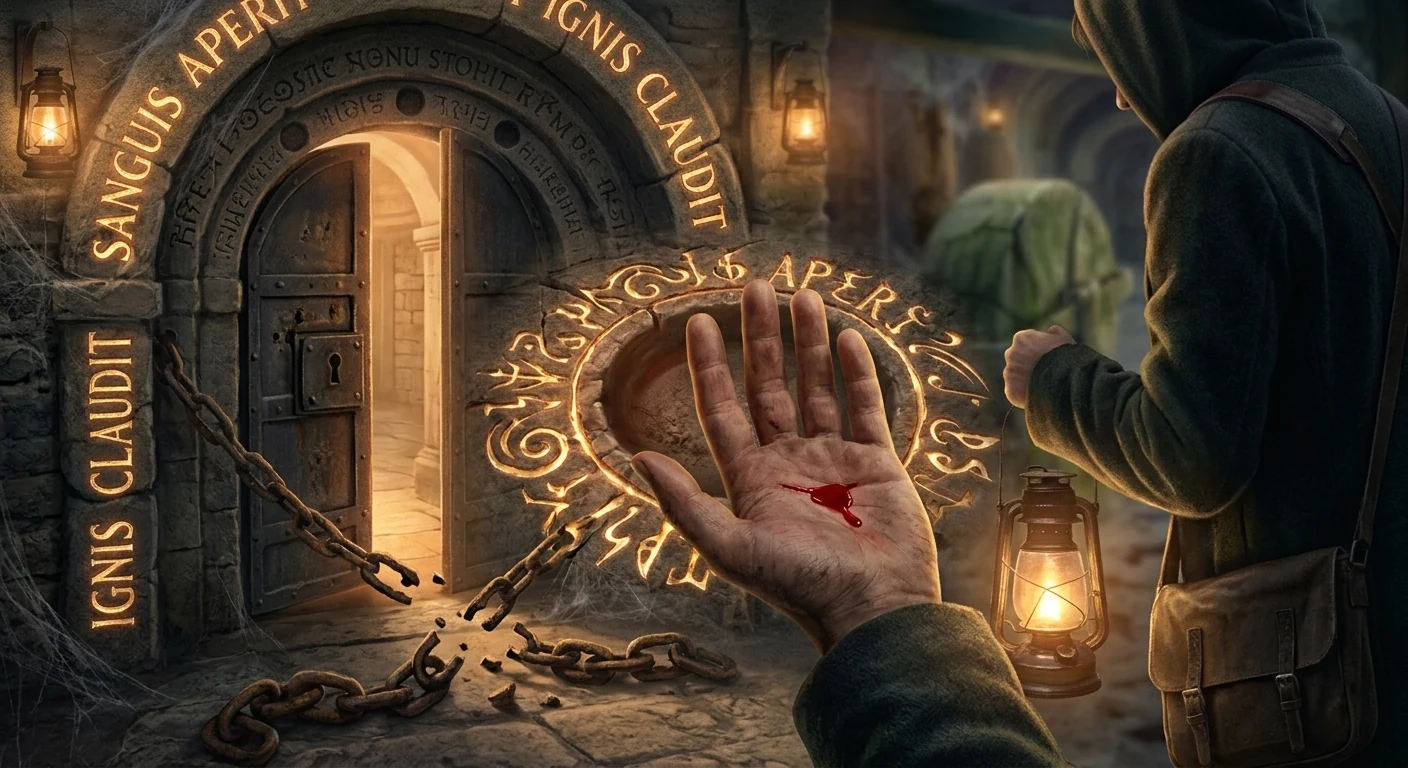
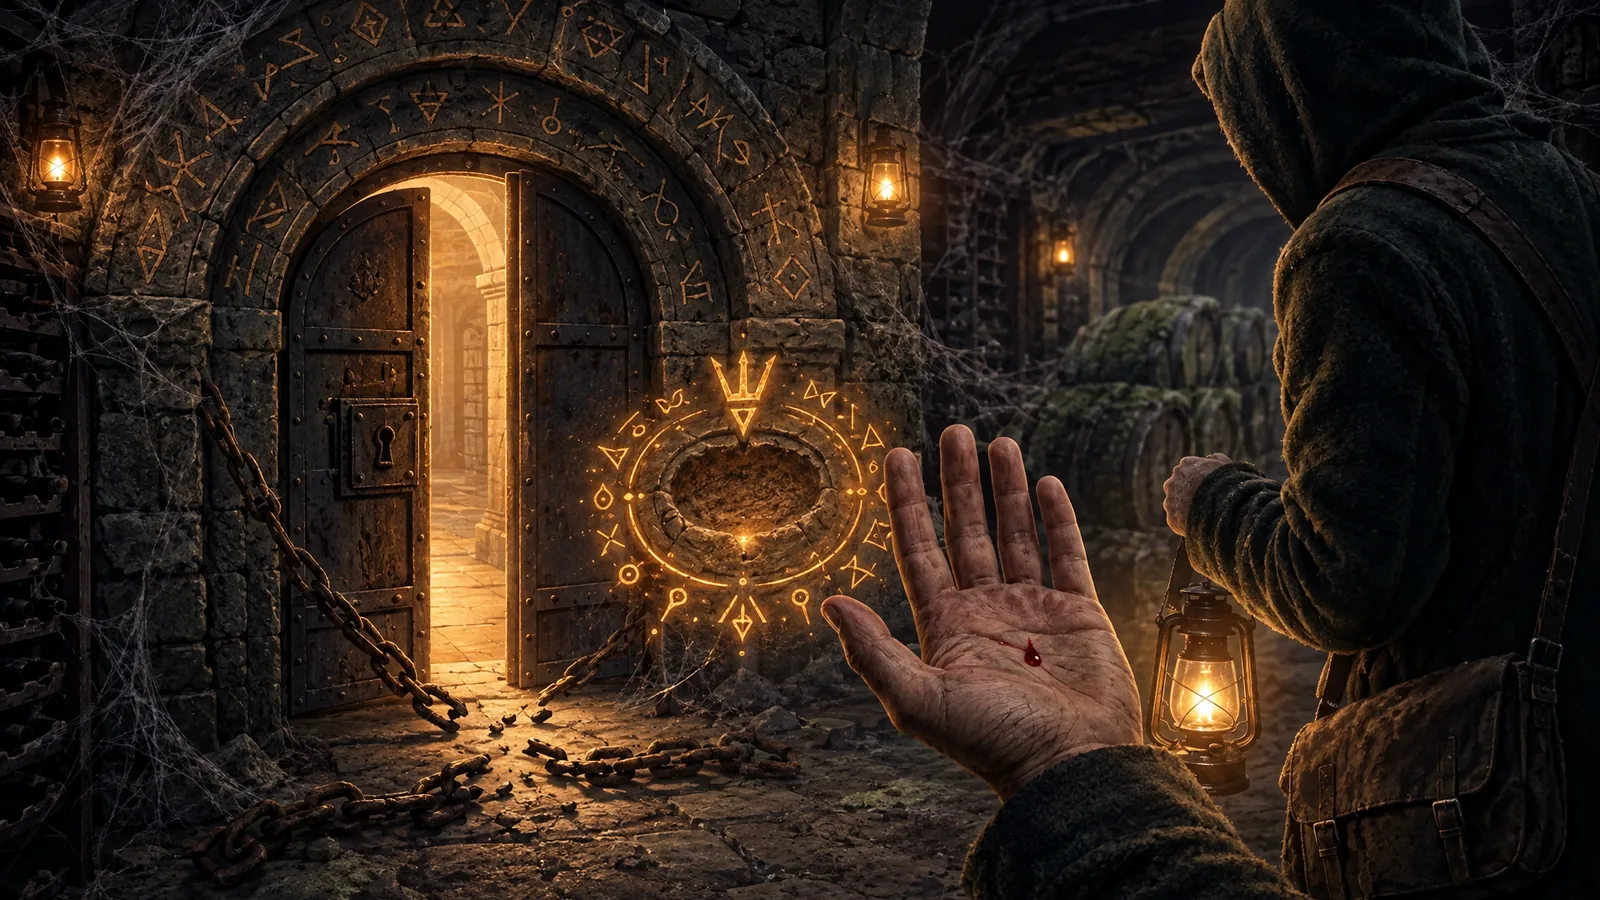
Mühürlü Kapı'nın eksik 6 sonuç görseli ve 3 görsel düzeltmesi
- kapiyi_dinle, kapiyi_zorla, mahzen_uc_vurus başarı/başarısızlık kareleri (16:9)
- bilgin_muhru_coz_success: okunabilir yazı kaldırıldı
- dedektif_tuzagi_etkisizlestir_fail: tuzağın tetiklendiği an, başarıdan ayrışıyor
- bilgin_muhru_coz_fail: kan izleri kaldırıldı

Claude-Session: https://claude.ai/code/session_01JqZuFhZkPtEmSQdCde2g6z

diff --git a/scripts/story-art/generate.py b/scripts/story-art/generate.py
@@ -1,0 +1,97 @@
+#!/usr/bin/env python3
+"""
+manifest.json'daki görselleri CellCog ile üretir ve place.py ile yerine koyar.
+
+  CELLCOG_API_KEY=sk_... python3 scripts/story-art/generate.py <node_id> [--only id1,id2] [--tier max]
+
+- Bir sahnenin eksik görselleri tek CellCog sohbetinde üretilir (süreklilik için).
+- Sahnenin ana görseli yoksa önce o üretilir, sonuç görselleri ona referansla üretilir.
+- Ham çıktılar scripts/story-art/.raw/ altına iner (git'e girmez).
+"""
+import json, os, sys, subprocess
+from cellcog import CellCogClient
+
+HERE = os.path.dirname(os.path.abspath(__file__))
+ROOT = os.path.abspath(os.path.join(HERE, '..', '..'))
+ART = os.path.join(ROOT, 'client', 'public', 'story-art')
+RAW = os.path.join(HERE, '.raw')
+# Üslup referansı: kullanıcının onayladığı ilk sahne görseli
+STYLE_REF = os.path.join(ART, 'mahzen', 'mahzen_01_karanlik_mahzen', 'scene.webp')
+
+
+def chat(client, prompt, label, tier):
+    r = client.create_chat(prompt=prompt, task_label=label, chat_mode='agent', chat_tier=tier, timeout=3600)
+    print(r['message'])
+    if r.get('timed_out'):
+        r = client.wait_for_completion(chat_id=r['chat_id'], timeout=3600)
+        print(r['message'])
+    return r
+
+
+def batch_prompt(items, refs):
+    lines = [
+        f'Aşağıdaki {len(items)} görselin HER BİRİNİ ayrı bir PNG dosyası olarak oluştur. '
+        'Hepsi YATAY 16:9 (ör. 1920x1080), 2K kalite. Görsellerin hiçbirinde okunabilir yazı, harf, logo, filigran ya da arayüz olmasın.',
+        'Üslup referansı (palet, fırça dokusu, ışık; içeriğini kopyalama): ' + ''.join(f'<SHOW_FILE>{p}</SHOW_FILE>' for p in refs),
+        '',
+    ]
+    for n, it in enumerate(items, 1):
+        lines.append(f'--- GÖRSEL {n} ---')
+        lines.append(it['prompt'])
+        if it.get('redo'):
+            old = os.path.join(ART, it['output'])
+            if os.path.exists(old):
+                lines.append(f'Bu görselin ÖNCEKİ sürümü (düzeltmede belirtilen sorun dışında kompozisyon ve üslubu koru): <SHOW_FILE>{old}</SHOW_FILE>')
+            if it.get('outcome') == 'fail':
+                twin = old.replace('_fail.webp', '_success.webp')
+                if os.path.exists(twin):
+                    lines.append(f'Aynı eylemin BAŞARI karesi (bu başarısızlık karesi bundan açıkça farklı görünmeli): <SHOW_FILE>{twin}</SHOW_FILE>')
+        lines.append(f'<GENERATE_FILE>{os.path.join(RAW, it["id"] + ".png")}</GENERATE_FILE>')
+        lines.append('')
+    return '\n'.join(lines)
+
+
+def place(it):
+    src = os.path.join(RAW, it['id'] + '.png')
+    if not os.path.exists(src):
+        print(f'EKSİK ÇIKTI: {it["id"]}')
+        return False
+    subprocess.run([sys.executable, os.path.join(HERE, 'place.py'), src, it['id']], check=True)
+    return True
+
+
+def main():
+    args = sys.argv[1:]
+    if not args:
+        sys.exit(__doc__)
+    node = args[0]
+    only = args[args.index('--only') + 1].split(',') if '--only' in args else None
+    tier = args[args.index('--tier') + 1] if '--tier' in args else 'flash'
+    manifest = json.load(open(os.path.join(HERE, 'manifest.json'), encoding='utf-8'))
+    items = [i for i in manifest if i['node_id'] == node and (not only or i['id'].split('/')[1] in only)]
+    if not items:
+        sys.exit(f'{node}: üretilecek görsel yok')
+    os.makedirs(os.path.join(RAW, node), exist_ok=True)
+    client = CellCogClient(agent_provider='claude-code')
+
+    scene = [i for i in items if i['id'].endswith('/scene')]
+    rest = [i for i in items if not i['id'].endswith('/scene')]
+    if scene:
+        chat(client, batch_prompt(scene, [STYLE_REF]), f'{node}-scene', tier)
+        place(scene[0])
+    scene_path = os.path.join(ART, rest[0]['reference']) if rest else None
+    # CellCog'a çok uzun istem göndermemek için sonuçları 6'şarlı gruplar halinde üret
+    for k in range(0, len(rest), 6):
+        group = rest[k:k + 6]
+        refs = [STYLE_REF] + ([scene_path] if scene_path and os.path.exists(scene_path) and scene_path != STYLE_REF else [])
+        prompt = batch_prompt(group, refs)
+        if scene_path and os.path.exists(scene_path):
+            prompt = ('SÜREKLİLİK: Sonuç görselleri, şu sahne görselinin devamıdır; mekân, ışık ve nesne yerleşimi aynı kalsın: '
+                      f'<SHOW_FILE>{scene_path}</SHOW_FILE>\n\n') + prompt
+        chat(client, prompt, f'{node}-results-{k // 6 + 1}', tier)
+        for it in group:
+            place(it)
+
+
+if __name__ == '__main__':
+    main()

diff --git a/scripts/story-art/build-manifest.py b/scripts/story-art/build-manifest.py
@@ -18,15 +18,8 @@ FOLDERS = [('mahzen_', 'mahzen'), ('konak_', 'mahzen'), ('yanki_', 'yankilar'), 
 
 # Kontrolde sorun çıkan, yeniden üretilecek görseller ve nedeni
 REDO = {
-    'mahzen_01_karanlik_mahzen/bilgin_muhru_coz_success':
-        'Önceki sürümde mühür ve kemer üzerinde okunabilir Latince yazı vardı. Hiçbir yüzeyde okunabilir harf olmasın; '
-        'mühür yalnızca okunamayan, soyut rün benzeri işaretlerle çizilsin.',
-    'mahzen_01_karanlik_mahzen/dedektif_tuzagi_etkisizlestir_fail':
-        'Önceki sürüm başarı karesiyle neredeyse aynıydı. Bu kare açıkça BAŞARISIZLIK anı olmalı: tuzak tetiklenmiş, '
-        'mekanizma boşalmış, dedektif geri savruluyor; başarı karesinden kompozisyon ve ışıkla belirgin biçimde ayrışsın.',
-    'mahzen_01_karanlik_mahzen/bilgin_muhru_coz_fail':
-        'Önceki sürümde yerde belirgin kan izleri vardı. Kan gösterme; tehlikeyi soğuk mor ışık, savrulan toz, '
-        'kararmış mühür ve gölgelerle anlat.',
+    # 'mahzen_01_karanlik_mahzen/bilgin_muhru_coz_success': 'düzeltme notu',
+    # (25.10.2026: yazı, aynı görünen başarısızlık ve kan düzeltmeleri yapıldı)
 }
 
 STYLE = (
